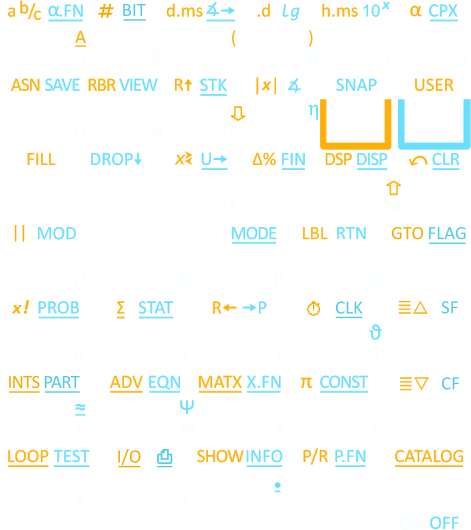
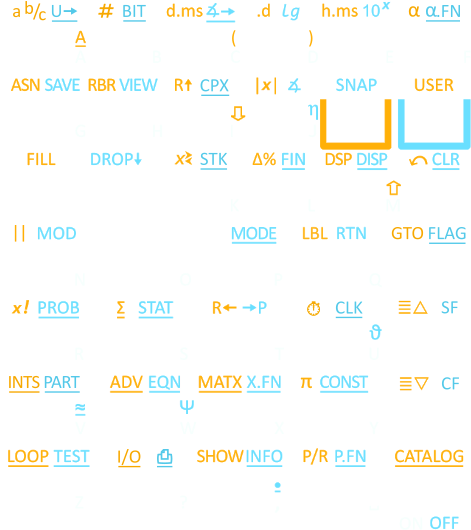
New keyboard layout with α.FN, CPX, STK, and U→ moved

diff --git a/src/wp43s/assign.c b/src/wp43s/assign.c
@@ -31,22 +31,22 @@
 //This variable is to store in flash memory
 TO_QSPI const calcKey_t kbd_std[37] = {
 //keyId primary          fShifted         gShifted         keyLblAim        primaryAim         fShiftedAim            gShiftedAim    primaryTam
- {21,   ITM_1ONX,        ITM_TGLFRT,     -MNU_ALPHAFN,     ITM_NULL,        ITM_A,            -MNU_ALPHAINTL,         ITM_ALPHA,     ITM_REG_A    },
+ {21,   ITM_1ONX,        ITM_TGLFRT,     -MNU_UNITCONV,    ITM_NULL,        ITM_A,            -MNU_ALPHAINTL,         ITM_ALPHA,     ITM_REG_A    },
  {22,  -MNU_EXP,         ITM_toINT,      -MNU_BITS,        ITM_NUMBER_SIGN, ITM_B,             ITM_NUMBER_SIGN,       ITM_BETA,      ITM_REG_B    },
  {23,  -MNU_TRI,         ITM_DMS,        -MNU_ANGLECONV,   ITM_NULL,        ITM_C,             ITM_LEFT_PARENTHESIS,  ITM_GAMMA,     ITM_REG_C    },
  {24,   ITM_LN,          ITM_dotD,        ITM_LOG10,       ITM_NULL,        ITM_D,             ITM_RIGHT_PARENTHESIS, ITM_DELTA,     ITM_REG_D    }, // if f or g are changed: adapt the function btnClicked section if(calcMode == CM_NIM) in keyboard.c. Case D for decimal base
  {25,   ITM_EXP,         ITM_toHMS,       ITM_10x,         ITM_ALOG_SYMBOL, ITM_E,             ITM_ALOG_SYMBOL,       ITM_EPSILON,   ITM_E        },
- {26,   ITM_SQUAREROOTX, ITM_AIM,        -MNU_CPX,         ITM_ROOT_SIGN,   ITM_F,             ITM_ROOT_SIGN,         ITM_PHI,       ITM_alpha    },
+ {26,   ITM_SQUAREROOTX, ITM_AIM,        -MNU_ALPHAFN,     ITM_ROOT_SIGN,   ITM_F,             ITM_ROOT_SIGN,         ITM_PHI,       ITM_alpha    },
 
  {31,   ITM_STO,         ITM_ASSIGN,      ITM_SAVE,        ITM_NULL,        ITM_G,             ITM_ASSIGN,            ITM_GAMMA,     ITM_NULL     },
  {32,   ITM_RCL,         ITM_RBR,         ITM_VIEW,        ITM_NULL,        ITM_H,             ITM_RBR,               ITM_CHI,       ITM_HEX      }, // if f or g are changed: adapt the function btnClicked section if(calcMode == CM_NIM) in keyboard.c. Case H for hexadecimal base
- {33,   ITM_Rdown,       ITM_Rup,        -MNU_STK,         ITM_NULL,        ITM_I,             ITM_DOWN_ARROW,        ITM_IOTA,      ITM_REG_I    },
+ {33,   ITM_Rdown,       ITM_Rup,        -MNU_CPX,         ITM_NULL,        ITM_I,             ITM_DOWN_ARROW,        ITM_IOTA,      ITM_REG_I    },
  {34,   ITM_CC,          ITM_MAGNITUDE,   ITM_ANGLE,       ITM_NULL,        ITM_J,             ITM_VERTICAL_BAR,      ITM_ETA,       ITM_REG_J    },
  {35,   ITM_SHIFTf,      ITM_NULL,        ITM_SNAP,        ITM_SHIFTf,      ITM_SHIFTf,        ITM_NULL,              ITM_SNAP,      ITM_SHIFTf   },
  {36,   ITM_SHIFTg,      ITM_USERMODE,    ITM_NULL,        ITM_SHIFTg,      ITM_SHIFTg,        ITM_USERMODE,          ITM_NULL,      ITM_SHIFTg   },
 
  {41,   ITM_ENTER,       ITM_FILL,        ITM_DROP,        ITM_ENTER,       ITM_ENTER,         ITM_NULL,              ITM_NULL,      ITM_ENTER    },
- {42,   ITM_XexY,        ITM_Xex,        -MNU_UNITCONV,    ITM_ex,          ITM_K,             ITM_ex,                ITM_KAPPA,     ITM_REG_K    },
+ {42,   ITM_XexY,        ITM_Xex,        -MNU_STK,         ITM_ex,          ITM_K,             ITM_ex,                ITM_KAPPA,     ITM_REG_K    },
  {43,   ITM_CHS,         ITM_DELTAPC,    -MNU_FIN,         ITM_PLUS_MINUS,  ITM_L,             ITM_PLUS_MINUS,        ITM_LAMBDA,    ITM_REG_L    },
  {44,   ITM_EXPONENT,    ITM_DSP,        -MNU_DISP,        ITM_NULL,        ITM_M,             ITM_UP_ARROW,          ITM_MU,        ITM_NULL     },
  {45,   ITM_BACKSPACE,   ITM_UNDO,       -MNU_CLR,         ITM_BACKSPACE,   ITM_BACKSPACE,     ITM_UNDO,             -MNU_CLR,       ITM_BACKSPACE},
